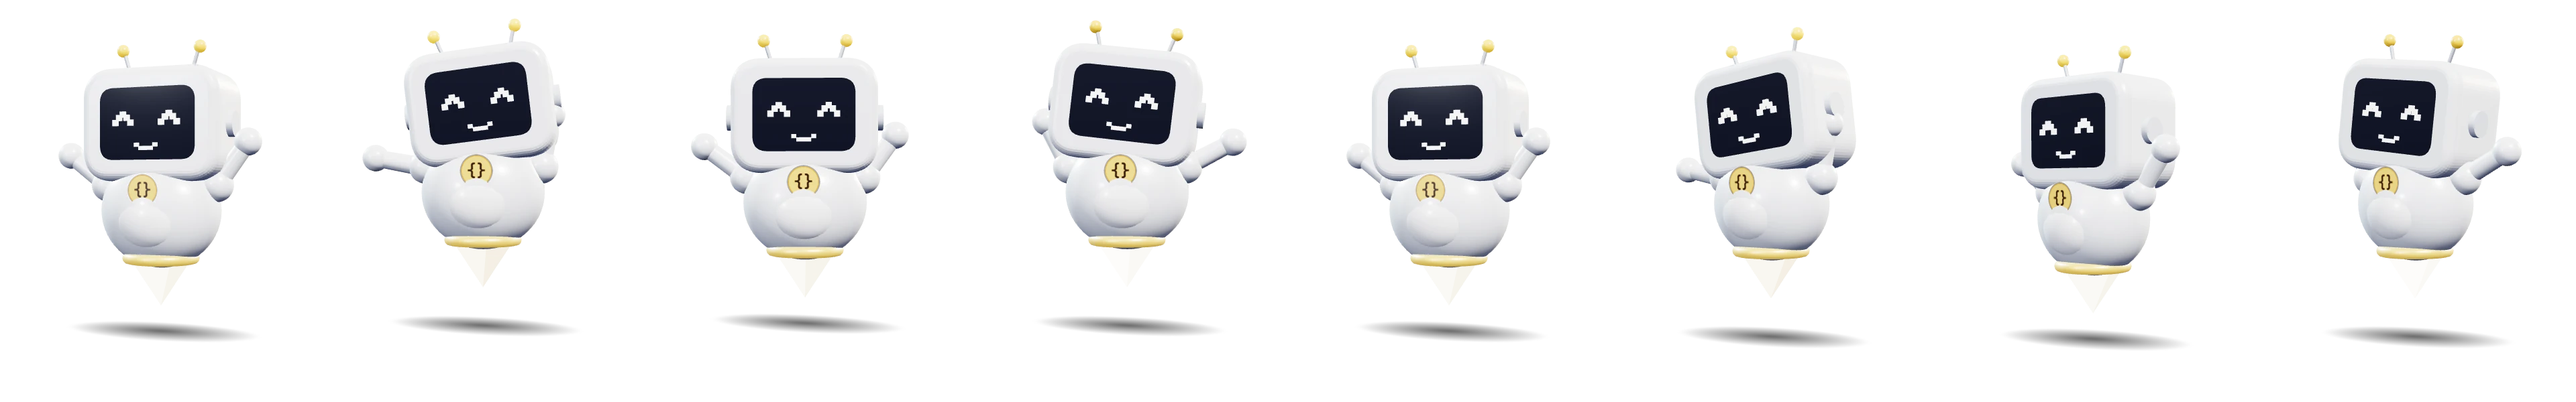
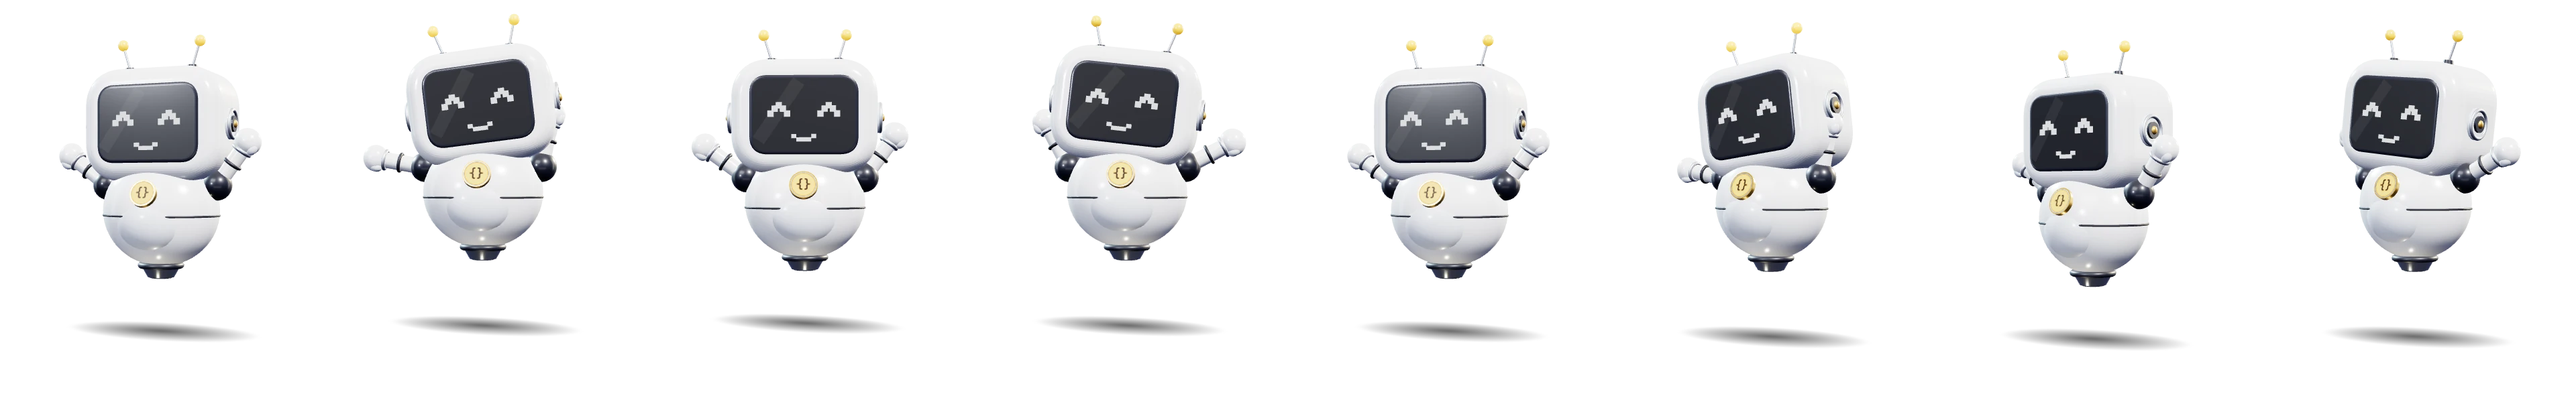
Pixel rebuilt as a real robot
Rounder pearl-gloss head shell with a seam, a recessed screen with a graphite bezel and curved glass,
ear pods with chrome rims and gold LEDs, antennas on sockets; torso with a panel seam, satin chest
plate, raised gold { } coin and a collar; chrome ball shoulders, capsule arms with elbow bands and
wrist cuffs; a chrome thruster with a glowing core instead of the grey cone. Intro sprites
re-exported from the new model.

diff --git a/public/game.js b/public/game.js
@@ -231,24 +231,50 @@ const M3D=(()=>{let R=null,ok=null;const cache={};
   const M=(g,m,p=[0,0,0],s=[1,1,1],r=[0,0,0])=>{const x=new T.Mesh(g,m);x.position.set(...p);x.scale.set(...s);x.rotation.set(...r);return x};
   const sph=new T.SphereGeometry(1,40,28),cyl=(a,b,h)=>new T.CylinderGeometry(a,b,h,32),dark=mat("#14162A",{roughness:.15}),white=mat("#FFFFFF");
   const root=new T.Group(),body=new T.Group(),head=new T.Group();root.add(body);
+  /* Pixel is built like a product: a pearl-white gloss shell, satin trim plates, graphite joints and seams, chrome and gold
+     hardware. The seams, joints and glass are what make it read as a machine rather than a painted shape. */
+  const PX=id==="pixel"?{pearl:mat("#F4F6FA",{roughness:.2,clearcoat:1,clearcoatRoughness:.06}),satin:mat("#DDE2EB",{roughness:.48,clearcoat:.35}),
+   gph:mat("#1B1F2D",{roughness:.38,metalness:.35,clearcoat:.5}),chrome:mat("#D9DEE8",{metalness:.95,roughness:.16,clearcoat:.3}),gold:mat("#E8B54A",{metalness:.9,roughness:.26,clearcoat:.4})}:null;
+  const caps=(r,h,m)=>{const g=new T.Group();g.add(M(new T.CylinderGeometry(r,r,h,32),m));g.add(M(sph,m,[0,h/2,0],[r,r,r]));g.add(M(sph,m,[0,-h/2,0],[r,r,r]));return g};
+  const ring=(R,t,m,p,sc=[1,1,1])=>M(new T.TorusGeometry(R,t,10,64),m,p,sc,[Math.PI/2,0,0]);
   /* legs + boots */
   const run=pose==="run"||pose==="panic";
-  if(id==="pixel"){const ring=M(new T.TorusGeometry(.42,.07,12,40),mat("#F5C451",{emissive:new T.Color("#F5C451"),emissiveIntensity:.55,metalness:.5}),[0,.95,0],[1,1,1],[Math.PI/2,0,0]);body.add(ring);body.add(M(new T.ConeGeometry(.36,.55,28,1,true),new T.MeshBasicMaterial({color:0xFFE7A8,transparent:true,opacity:.14+.06*W2,side:T.DoubleSide}),[0,.62,0],[1,1,1],[Math.PI,0,0]));body.add(M(cyl(.32,.2,.25),mat("#D5DAE5"),[0,1.06,0]))}
+  if(id==="pixel"){
+   /* the thruster sits under the body shell (whose bottom is at y≈.86); the exhaust is only light: a cone of
+      half-transparent colour drawn into a transparent sprite comes out as a grey solid */
+   body.add(ring(.255,.04,PX.gph,[0,.86,0]));
+   body.add(M(new T.CylinderGeometry(.25,.17,.14,40),PX.chrome,[0,.78,0]));
+   body.add(M(new T.CylinderGeometry(.14,.14,.02,40),PX.gph,[0,.708,0]));
+   body.add(M(new T.CircleGeometry(.115,40),new T.MeshBasicMaterial({color:0xFFF0C8}),[0,.696,0],[1,1,1],[Math.PI/2,0,0]));
+   const glow=new T.PointLight(0xFFE2A0,.8,1.6);glow.position.set(0,.55,.25);body.add(glow)}
   else [-1,1].forEach(sd=>{const lg=new T.Group();lg.position.set(sd*.34,.95,0);lg.add(M(cyl(.17,.15,.62),mat(P.leg),[0,-.31,0]));lg.add(M(sph,mat(P.boot),[0,-.68,.08],[.3,.2,.4]));
    if(run)lg.rotation.x=sd*.75*W;if(pose==="dance")lg.rotation.z=sd*.12*W2;body.add(lg)});
   /* torso */
   const tor=new T.Group();tor.position.y=1.55;body.add(tor);
+  if(id==="pixel"){
+   tor.add(M(sph,PX.pearl,[0,0,0],[.76,.7,.6]));
+   tor.add(M(new T.TorusGeometry(1,.012,8,96),PX.gph,[0,-.06,0],[.757,.598,1],[Math.PI/2,0,0]));   /* panel seam */
+   tor.add(M(sph,PX.satin,[0,-.12,.33],[.46,.38,.3]));                                           /* chest plate */
+   tor.add(M(new T.TorusGeometry(1,.01,8,64),PX.gph,[0,-.12,.33],[.462,.382,.3]));
+   tor.add(ring(.27,.05,PX.gph,[0,.6,0]));tor.add(ring(.22,.03,PX.chrome,[0,.66,0]));              /* collar */
+   const coin=M(new T.CylinderGeometry(.17,.17,.05,48),PX.gold,[0,.22,.575],[1,1,1],[Math.PI/2-.35,0,0]);tor.add(coin)}
+  else{
   tor.add(M(sph,mat(P.body),[0,0,0],[.78,.72,.62]));
-  tor.add(M(sph,mat(P.belly,{clearcoat:.3}),[0,-.08,.36],[.46,.4,.28]));
+  tor.add(M(sph,mat(P.belly,{clearcoat:.3}),[0,-.08,.36],[.46,.4,.28]))}
   if(P.belt)tor.add(M(new T.TorusGeometry(.66,.07,12,40),mat(P.belt),[0,-.42,0],[1,1,.85],[Math.PI/2,0,0]));
-  const em=new T.Mesh(new T.CircleGeometry(.2,32),new T.MeshStandardMaterial({map:emblemTex(id==="pixel"?"#F5C451":P.bodyHi),roughness:.3}));em.position.set(0,.26,.6);tor.add(em);
+  const em=new T.Mesh(new T.CircleGeometry(.2,32),new T.MeshStandardMaterial({map:emblemTex(id==="pixel"?"#F5C451":P.bodyHi),roughness:.3}));em.position.set(0,.26,.6);if(id==="pixel"){em.position.set(0,.229,.603);em.rotation.x=-.35;em.scale.setScalar(.78)}tor.add(em);
   if(P.cape){const g=new T.PlaneGeometry(1.25,1.9,8,10),pos=g.attributes.position;for(let k=0;k<pos.count;k++){const x=pos.getX(k),y=pos.getY(k),down=(0.95-y)/1.9;pos.setX(k,x*(0.62+0.5*down));pos.setZ(k,-.18*Math.cos(x*2.2)-down*(.32+.12*W)+.06*Math.sin(x*4+t*12)*down)}g.computeVertexNormals();
    const cp=new T.Mesh(g,mat(P.cape,{side:T.DoubleSide,clearcoat:.2}));cp.position.set(0,-.62,-.52);tor.add(cp);[-1,1].forEach(sd=>tor.add(M(sph,mat(P.cape),[sd*.42,.5,-.38],[.12,.1,.1])))}
   /* arms: pivot at shoulder, hang down */
   const A={panic:[.2,.2,.9,-.9],pointq:[.18,.18,0,0],pointa:[.18,.18,0,0],pointup:[.18,.18,0,0],warm:[2.2,2.2,0,0],stretch:[2.95,2.95,0,0],type:[.32,.32,-1.15,-1.15],read:[.4,.4,-1.0,-1.0],vibe:[.18,.18,0,0],drink:[.18,.35,0,-2.3],streak:[.3,.3,0,0],missed:[.55,.55,-1.25,-1.25],idle:[.18,.18,0,0],review:[.25,.25,-.6,-.6],think:[.2,.5,0,-1.9],dance:[2.5,2.2,0,0],trophy:[2.95,2.95,0,0],finish:[2.6,2.6,0,0],bonk:[1.25,1.25,0,0],tired:[.06,.06,.2,.2],stare:[.18,.18,0,0],run:[.2,.2,.9,-.9],chai:[.15,.45,0,-1.35],zen:[.95,.95,.3,.3]}[pose]||[.18,.18,0,0];
   const hands={};
   [1,-1].forEach((sd,i)=>{const ar=new T.Group();ar.position.set(sd*.74,.32,0);tor.add(ar);
-   ar.add(M(sph,mat(P.body),[0,0,0],[.21,.21,.21]));ar.add(M(cyl(.12,.11,.55),mat(P.limb),[0,-.32,0]));const hd=M(sph,mat(P.glove),[0,-.66,0],[.17,.17,.17]);ar.add(hd);
+   let hd;
+   if(id==="pixel"){ar.add(M(sph,PX.gph,[0,0,0],[.19,.19,.19]));ar.add(M(sph,PX.chrome,[sd*.035,0,0],[.15,.15,.15]));
+    const up=caps(.1,.42,PX.pearl);up.position.y=-.33;ar.add(up);
+    ar.add(ring(.108,.022,PX.gph,[0,-.33,0]));ar.add(ring(.112,.026,PX.chrome,[0,-.53,0]));
+    hd=M(sph,PX.pearl,[0,-.66,0],[.17,.16,.15]);ar.add(hd);ar.add(M(sph,PX.satin,[sd*-.11,-.62,.06],[.06,.08,.06]))}
+   else{ar.add(M(sph,mat(P.body),[0,0,0],[.21,.21,.21]));ar.add(M(cyl(.12,.11,.55),mat(P.limb),[0,-.32,0]));hd=M(sph,mat(P.glove),[0,-.66,0],[.17,.17,.17]);ar.add(hd)}
    let az=A[i],ax=A[2+i];
    if(pose==="idle"&&sd>0){az=1.45+.08*W;ax=-.25} /* points to the next lesson */
    if(pose==="pointq"&&sd>0){az=1.62+.06*W;ax=-.55} /* points at the question card */
@@ -274,17 +300,27 @@ const M3D=(()=>{let R=null,ok=null;const cache={};
   if(pose==="trophy"){const cup=new T.Group(),g=mat("#FFC52E",{metalness:.6,roughness:.25});cup.add(M(cyl(.22,.08,.3),g,[0,.12,0]));cup.add(M(cyl(.05,.05,.12),g,[0,-.08,0]));cup.add(M(cyl(.12,.12,.04),g,[0,-.16,0]));cup.scale.setScalar(1/.17);cup.position.set(0,-.2/.17,0);hands.L.add(cup)}
   if(pose==="chai"){const cup=new T.Group();cup.add(M(cyl(.13,.1,.22),mat("#FFF7E6"),[0,0,0]));cup.add(M(cyl(.11,.11,.02),mat("#A0522D"),[0,.1,0]));cup.add(M(new T.TorusGeometry(.07,.02,8,16),mat("#FFF7E6"),[.14,0,0]));hands.R.add(cup);cup.scale.setScalar(1/.17);cup.position.set(0,.2,0)}
   /* head */
-  head.position.y=2.62;body.add(head);body.add(M(cyl(.14,.16,.18),mat(P.leg),[0,2.08,0]));
-  if(id==="pixel"){const sh=new T.Shape(),w=.78,h=.58,r=.26;sh.moveTo(-w+r,-h);sh.lineTo(w-r,-h);sh.quadraticCurveTo(w,-h,w,-h+r);sh.lineTo(w,h-r);sh.quadraticCurveTo(w,h,w-r,h);sh.lineTo(-w+r,h);sh.quadraticCurveTo(-w,h,-w,h-r);sh.lineTo(-w,-h+r);sh.quadraticCurveTo(-w,-h,-w+r,-h);
-   const eg=new T.ExtrudeGeometry(sh,{depth:.8,bevelEnabled:true,bevelThickness:.14,bevelSize:.12,bevelSegments:6,curveSegments:16});eg.translate(0,0,-.47);head.add(new T.Mesh(eg,mat(P.head)));
+  head.position.y=2.62;body.add(head);if(id==="pixel"){body.add(M(cyl(.12,.14,.2),PX.chrome,[0,2.1,0]));body.add(ring(.13,.025,PX.gph,[0,2.04,0]))}else body.add(M(cyl(.14,.16,.18),mat(P.leg),[0,2.08,0]));
+  if(id==="pixel"){const sh=new T.Shape(),w=.7,h=.5,r=.28;sh.moveTo(-w+r,-h);sh.lineTo(w-r,-h);sh.quadraticCurveTo(w,-h,w,-h+r);sh.lineTo(w,h-r);sh.quadraticCurveTo(w,h,w-r,h);sh.lineTo(-w+r,h);sh.quadraticCurveTo(-w,h,-w,h-r);sh.lineTo(-w,-h+r);sh.quadraticCurveTo(-w,-h,-w+r,-h);
+   const eg=new T.ExtrudeGeometry(sh,{depth:.64,bevelEnabled:true,bevelThickness:.22,bevelSize:.2,bevelSegments:12,curveSegments:28});eg.translate(0,0,-.39);head.add(new T.Mesh(eg,PX.pearl));
+   head.add(M(new T.TorusGeometry(1,.012,8,96),PX.gph,[0,0,-.12],[.86,.66,1]));                /* seam where the face shell meets the back */
    const scr=new T.Shape(),sw=.62,shh=.44,sr=.18;scr.moveTo(-sw+sr,-shh);scr.lineTo(sw-sr,-shh);scr.quadraticCurveTo(sw,-shh,sw,-shh+sr);scr.lineTo(sw,shh-sr);scr.quadraticCurveTo(sw,shh,sw-sr,shh);scr.lineTo(-sw+sr,shh);scr.quadraticCurveTo(-sw,shh,-sw,shh-sr);scr.lineTo(-sw,-shh+sr);scr.quadraticCurveTo(-sw,-shh,-sw+sr,-shh);
-   const sm=new T.Mesh(new T.ShapeGeometry(scr,16),new T.MeshPhysicalMaterial({color:0x0E1220,roughness:.1,clearcoat:1}));sm.position.z=.48;head.add(sm);
-   [-1,1].forEach(sd=>{head.add(M(cyl(.025,.025,.38),mat("#C9CFDB",{metalness:.6,roughness:.25}),[sd*.45,.78,0],[1,1,1],[0,0,-sd*.3]));head.add(M(sph,mat("#FFC52E",{emissive:new T.Color("#FFC52E"),emissiveIntensity:.6+.3*W2}),[sd*.52,.97,0],[.08,.08,.08]));head.add(M(cyl(.16,.16,.12),mat("#D5DAE5"),[sd*.92,0,0],[1,1,1],[0,0,Math.PI/2]))})}
+   const bez=new T.ExtrudeGeometry(scr,{depth:.02,bevelEnabled:true,bevelThickness:.03,bevelSize:.05,bevelSegments:6,curveSegments:20});bez.translate(0,0,.43);
+   head.add(new T.Mesh(bez,PX.gph));                                                                 /* bezel */
+   const sm=new T.Mesh(new T.ShapeGeometry(scr,20),new T.MeshPhysicalMaterial({color:0x05070F,roughness:.5,metalness:0}));sm.position.z=.482;head.add(sm);
+   const gl=new T.ExtrudeGeometry(scr,{depth:.005,bevelEnabled:true,bevelThickness:.04,bevelSize:.0,bevelSegments:8,curveSegments:20});gl.translate(0,0,.5);
+   head.add(new T.Mesh(gl,new T.MeshPhysicalMaterial({color:0xFFFFFF,transparent:true,opacity:.05,roughness:.02,metalness:0,clearcoat:1,clearcoatRoughness:0,depthWrite:false})));  /* glass */
+   head.add(M(new T.PlaneGeometry(.16,.86),new T.MeshBasicMaterial({color:0xFFFFFF,transparent:true,opacity:.07,depthWrite:false}),[-.3,.04,.545],[1,1,1],[0,0,-.6]));   /* glare streak */
+   [-1,1].forEach(sd=>{
+    head.add(M(cyl(.19,.19,.08),PX.satin,[sd*.9,0,0],[1,1,1],[0,0,Math.PI/2]));head.add(M(new T.TorusGeometry(.17,.025,10,48),PX.chrome,[sd*.945,0,0],[1,1,1],[0,Math.PI/2,0]));
+    head.add(M(cyl(.1,.1,.03),PX.gph,[sd*.955,0,0],[1,1,1],[0,0,Math.PI/2]));head.add(M(sph,PX.gold,[sd*.97,0,0],[.035,.05,.05]));        /* ear pods */
+    head.add(M(cyl(.06,.07,.05),PX.gph,[sd*.42,.72,0]));head.add(M(cyl(.016,.016,.34),PX.chrome,[sd*.47,.88,0],[1,1,1],[0,0,-sd*.3]));
+    head.add(M(sph,mat("#FFC52E",{emissive:new T.Color("#FFB51E"),emissiveIntensity:.9+.3*W2,roughness:.2}),[sd*.52,1.04,0],[.07,.07,.07]))})}
   else head.add(M(sph,mat(P.head),[0,0,0],[.84,.76,.74]));
   if(P.face)head.add(M(sph,mat(P.face,{clearcoat:.2}),[0,-.12,.34],[.56,.42,.4]));
   const ez=id==="pixel"?.5:P.face?.76:.7,ey=.04;
   const eye=x=>{const g=new T.Group();g.position.set(x,ey,ez);head.add(g);
-   if(id==="pixel"){const em=mat("#FFFFFF",{emissive:new T.Color("#EAF2FF"),emissiveIntensity:1.2,roughness:.3}),px=(a,b,w=.075,h=.075)=>g.add(M(new T.BoxGeometry(w,h,.03),em,[a,b,0]));
+   if(id==="pixel"){const em=new T.MeshBasicMaterial({color:0xF2F8FF}),px=(a,b,w=.075,h=.075)=>g.add(M(new T.BoxGeometry(w,h,.02),em,[a,b,0]));
     if(kind==="happy"){px(-.1,-.03);px(-.05,.03);px(0,.07);px(.05,.03);px(.1,-.03);return}
     if(kind==="closed"||kind==="sleepy"){px(0,-.02,.26,.06);return}
     if(kind==="x"){[-.08,-.04,0,.04,.08].forEach(k=>{px(k,k,.06,.06);px(k,-k,.06,.06)});return}
@@ -303,7 +339,7 @@ const M3D=(()=>{let R=null,ok=null;const cache={};
    if(kind==="sleepy")g.add(M(sph,mat(P.head),[0,.11,.04],[.23,.14,.1]))};
   eye(-.3);eye(.3);
   /* mouth */
-  if(id==="pixel"){const mm=mat("#FFFFFF",{emissive:new T.Color("#EAF2FF"),emissiveIntensity:1.1});const smile=["dance","trophy","finish","chai","happy","vibe","streak","missed","warm","stretch","drink"].includes(pose);if(smile){[-.12,-.06,0,.06,.12].forEach((k,j)=>head.add(M(new T.BoxGeometry(.06,.05,.03),mm,[k,-.3+(j===0||j===4?.04:0),.5])))}else if(pose==="bonk")head.add(M(new T.BoxGeometry(.2,.05,.03),mm,[0,-.32,.5]));else head.add(M(new T.BoxGeometry(.12,.05,.03),mm,[0,-.3,.5]))}
+  if(id==="pixel"){const mm=new T.MeshBasicMaterial({color:0xF2F8FF});const smile=["dance","trophy","finish","chai","happy","vibe","streak","missed","warm","stretch","drink"].includes(pose);if(smile){[-.12,-.06,0,.06,.12].forEach((k,j)=>head.add(M(new T.BoxGeometry(.06,.05,.03),mm,[k,-.3+(j===0||j===4?.04:0),.5])))}else if(pose==="bonk")head.add(M(new T.BoxGeometry(.2,.05,.03),mm,[0,-.32,.5]));else head.add(M(new T.BoxGeometry(.12,.05,.03),mm,[0,-.3,.5]))}
   else if(["dance","trophy","finish","chai"].includes(pose))head.add(M(new T.TorusGeometry(.09,.025,8,20,Math.PI),dark,[0,-.3,.73],[1,1,1],[0,0,Math.PI]));
   else if(pose==="bonk")head.add(M(new T.TorusGeometry(.08,.022,8,20,Math.PI),dark,[0,-.36,.73]));
   else head.add(M(sph,dark,[0,-.32,.73],[.05,.04,.03]));

diff --git a/public/intro.js b/public/intro.js
@@ -75,7 +75,7 @@
   var ON = spk + '<path d="M15.5 8.5a5 5 0 0 1 0 7M19 5a10 10 0 0 1 0 14" fill="none" stroke="currentColor" stroke-width="2" stroke-linecap="round"/></svg>';
   var OFF = spk + '<path d="M16 9l6 6M22 9l-6 6" fill="none" stroke="currentColor" stroke-width="2" stroke-linecap="round"/></svg>';
   var coin = function (cls) { return '<div class="kx-emb ' + (cls || "") + '" aria-hidden="true"><i class="kx-ring"></i><i class="kx-ring b"></i><span class="kx-coin">{ }</span></div>'; };
-  var pixel = function (pose, cls) { return '<div class="kx-pix ' + (cls || "") + '" data-pose="' + pose + '"><span class="kx-pixs"><span class="kx-strip" style="background-image:url(' + PIX + pose + '.webp?v=2)"></span></span><i class="kx-shadow"></i></div>'; };
+  var pixel = function (pose, cls) { return '<div class="kx-pix ' + (cls || "") + '" data-pose="' + pose + '"><span class="kx-pixs"><span class="kx-strip" style="background-image:url(' + PIX + pose + '.webp?v=3)"></span></span><i class="kx-shadow"></i></div>'; };
   var win = function (inner) { return '<div class="kw"><div class="kw-bar"><i></i><i></i><i></i><span>kaun-banega-coder</span></div><div class="kw-body">' + inner + '<i class="kx-click"></i><i class="kx-ptr"></i></div></div>'; };
   var code = function (lines) { return '<div class="kc">' + lines.map(function (l, i) { return "<div><b>" + (i + 1) + "</b>" + l + "</div>"; }).join("") + "</div>"; };
   var py = function (s) { return s.replace(/('[^']*')/g, "\u0001$1\u0002").replace(/(\d+)/g, '<span class="n">$1</span>').replace(/\u0001/g, '<span class="s">').replace(/\u0002/g, "</span>").replace(/\b(len|print)\b/g, '<span class="f">$1</span>'); };
@@ -157,7 +157,7 @@
           '<div class="kx-prog"><span class="kx-pl"></span><span class="kx-segs">' + new Array(11).join("<i></i>") + '</span><b class="kx-pn">01/10</b></div>' +
           '<div class="kx-chpix">' + ["pointq", "dance", "pointa", "trophy"].map(function (p) { return pixel(p, "kx-big"); }).join("") + "</div>" +
           '<div class="kx-win">' + win(homeScr + fffScr + seatScr(false) + seatScr(true) + pathScr + hofScr) + "</div></div>" +
-        '<div class="kx-dlg"><span class="kx-av"><span style="background-image:url(' + PIX + 'pointq.webp?v=2)"></span></span><div><small>Pixel</small><p><span class="kx-say"></span><i class="kx-more">⌄</i></p></div></div>' +
+        '<div class="kx-dlg"><span class="kx-av"><span style="background-image:url(' + PIX + 'pointq.webp?v=3)"></span></span><div><small>Pixel</small><p><span class="kx-say"></span><i class="kx-more">⌄</i></p></div></div>' +
       "</div>" +
       '<button type="button" class="kx-letsplay" data-ki="done">Let\'s play →</button>' +
       '<p class="ki-rot">Turn your phone sideways for a bigger picture</p>' +
